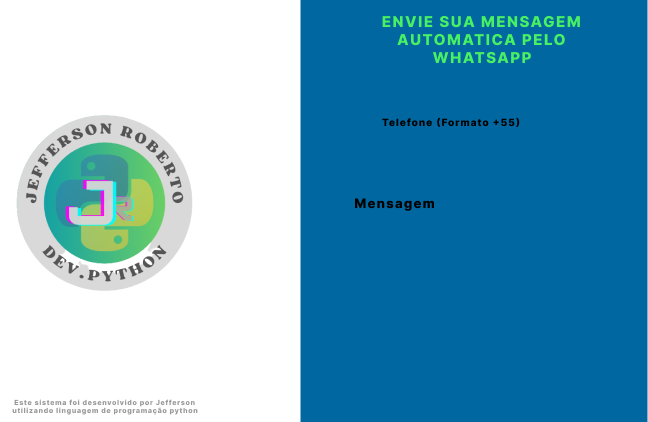
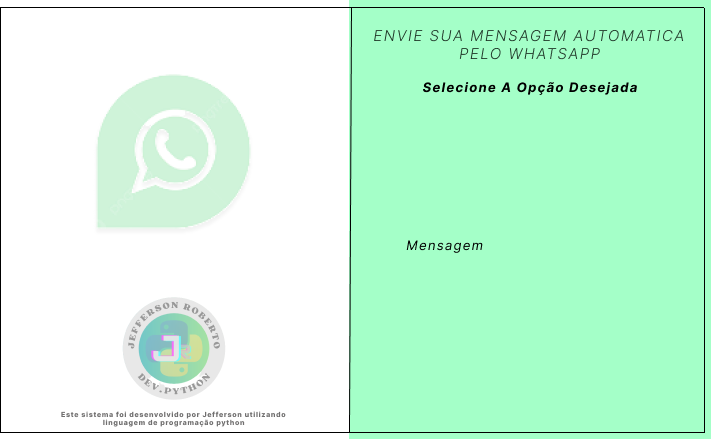
Deploy de mudança de interface
Fiz a mudança de interface.
Temos que adicionar funcoes e codar

diff --git a/Automacao WP- gui tkinter/Proxlight_Designer_Export/app/window.py b/Automacao WP- gui tkinter/Proxlight_Designer_Export/app/window.py
@@ -1,20 +1,18 @@
 from tkinter import *
-from functionwindow import Navegador
-import os
 
-caminho = os.getcwd()
 
-driver = Navegador()
+def btn_clicked():
+    print("Button Clicked")
 
-class EnvioDeWhatsapp:
+class EnvioDeWhatsapp():
     def __init__(self):
         self.window = Tk()
-        self.window.title('Envio de mensagem pelo WhatsApp')
+
         self.window.geometry("720x439")
-        self.window.configure(bg = "#d8d8d8")
+        self.window.configure(bg = "#b3f0d3")
         self.canvas = Canvas(
             self.window,
-            bg = "#d8d8d8",
+            bg = "#b3f0d3",
             height = 439,
             width = 720,
             bd = 0,
@@ -22,59 +20,40 @@ class EnvioDeWhatsapp:
             relief = "ridge")
         self.canvas.place(x = 0, y = 0)
 
-        self.background_img = PhotoImage(file=r'background.png')
+        self.background_img = PhotoImage(file = f"background.png")
         self.background = self.canvas.create_image(
-            394.5, 228.0,
+            361.5, 219.5,
             image=self.background_img)
 
-        self.entry0_img = PhotoImage(file = r'img_textBox0.png')
-        self.entry0_bg = self.canvas.create_image(
-            550.5, 287.5,
-            image = self.entry0_img)
-
-        self.mensagem_para_envio = Text(
+        self.img_caixa_texto = PhotoImage(file = f"img_textBox0.png")
+        self.img_caixa_texto = self.canvas.create_image(
+            541.5, 310.5,
+            image = self.img_caixa_texto)
+        self.mensagem_para_enviar = Text(
             bd = 0,
             bg = "#ffffff",
             highlightthickness = 0)
-        self.mensagem_para_envio.place(
-            x = 425, y = 231,
-            width = 255,
-            height = 115)
+        self.mensagem_para_enviar.place(
+            x = 416, y = 254,
+            width = 251,
+            height = 111)
 
-        self.entry1_img = PhotoImage(file = r"img_textBox1.png")
-        self.entry1_bg = self.canvas.create_image(
-            544.5, 158.0,
-            image = self.entry1_img)
-
-        self.telefone_para_envio = Entry(
-            bd = 0,
-            bg = "#ffffff",
-            highlightthickness = 0)
-        self.telefone_para_envio.place(
-            x = 453, y = 145,
-            width = 183,
-            height = 26)
-
-        self.img0 = PhotoImage(file =r"img0.png")
+        self.img_botao = PhotoImage(file = f"img0.png")
         self.botao_enviar = Button(
-            text='Enviar',
-            bg='#ACFFB9',
-            fg='black',
+            image = self.img_botao,
             borderwidth = 5,
-            highlightthickness = 5,
-            command = self.cliando_em_enviar,
+            highlightthickness = 2,
+            command = btn_clicked,
+            bg= '#62D975',
             relief = "flat")
         self.botao_enviar.place(
-            x = 501, y = 371,
+            x = 484, y = 382,
             width = 116,
             height = 37)
 
         self.window.resizable(False, False)
         self.window.mainloop()
 
-    def cliando_em_enviar(self):
-        driver.cliquei_no_link(self.telefone_para_envio.get(), self.mensagem_para_envio.get('1.0', END))
+if "__main__" == __name__:
 
-
-if '__main__' == __name__:
-    a = EnvioDeWhatsapp()
+    app = EnvioDeWhatsapp()

diff --git a/Automacao WP- gui tkinter/Proxlight_Designer_Export/app/functionwindow.py b/Automacao WP- gui tkinter/Proxlight_Designer_Export/app/functionwindow.py
@@ -28,7 +28,7 @@ class Navegador:
         time.sleep(7)
         print('WhatsApp logado e carregado com sucesso!\nProxima etapa...')
 
-        # numeros = ['31973093105','31985704347', '31989015177']
+        # numeros = ['']
         # for numero in numeros:
             # print (numero)
 
